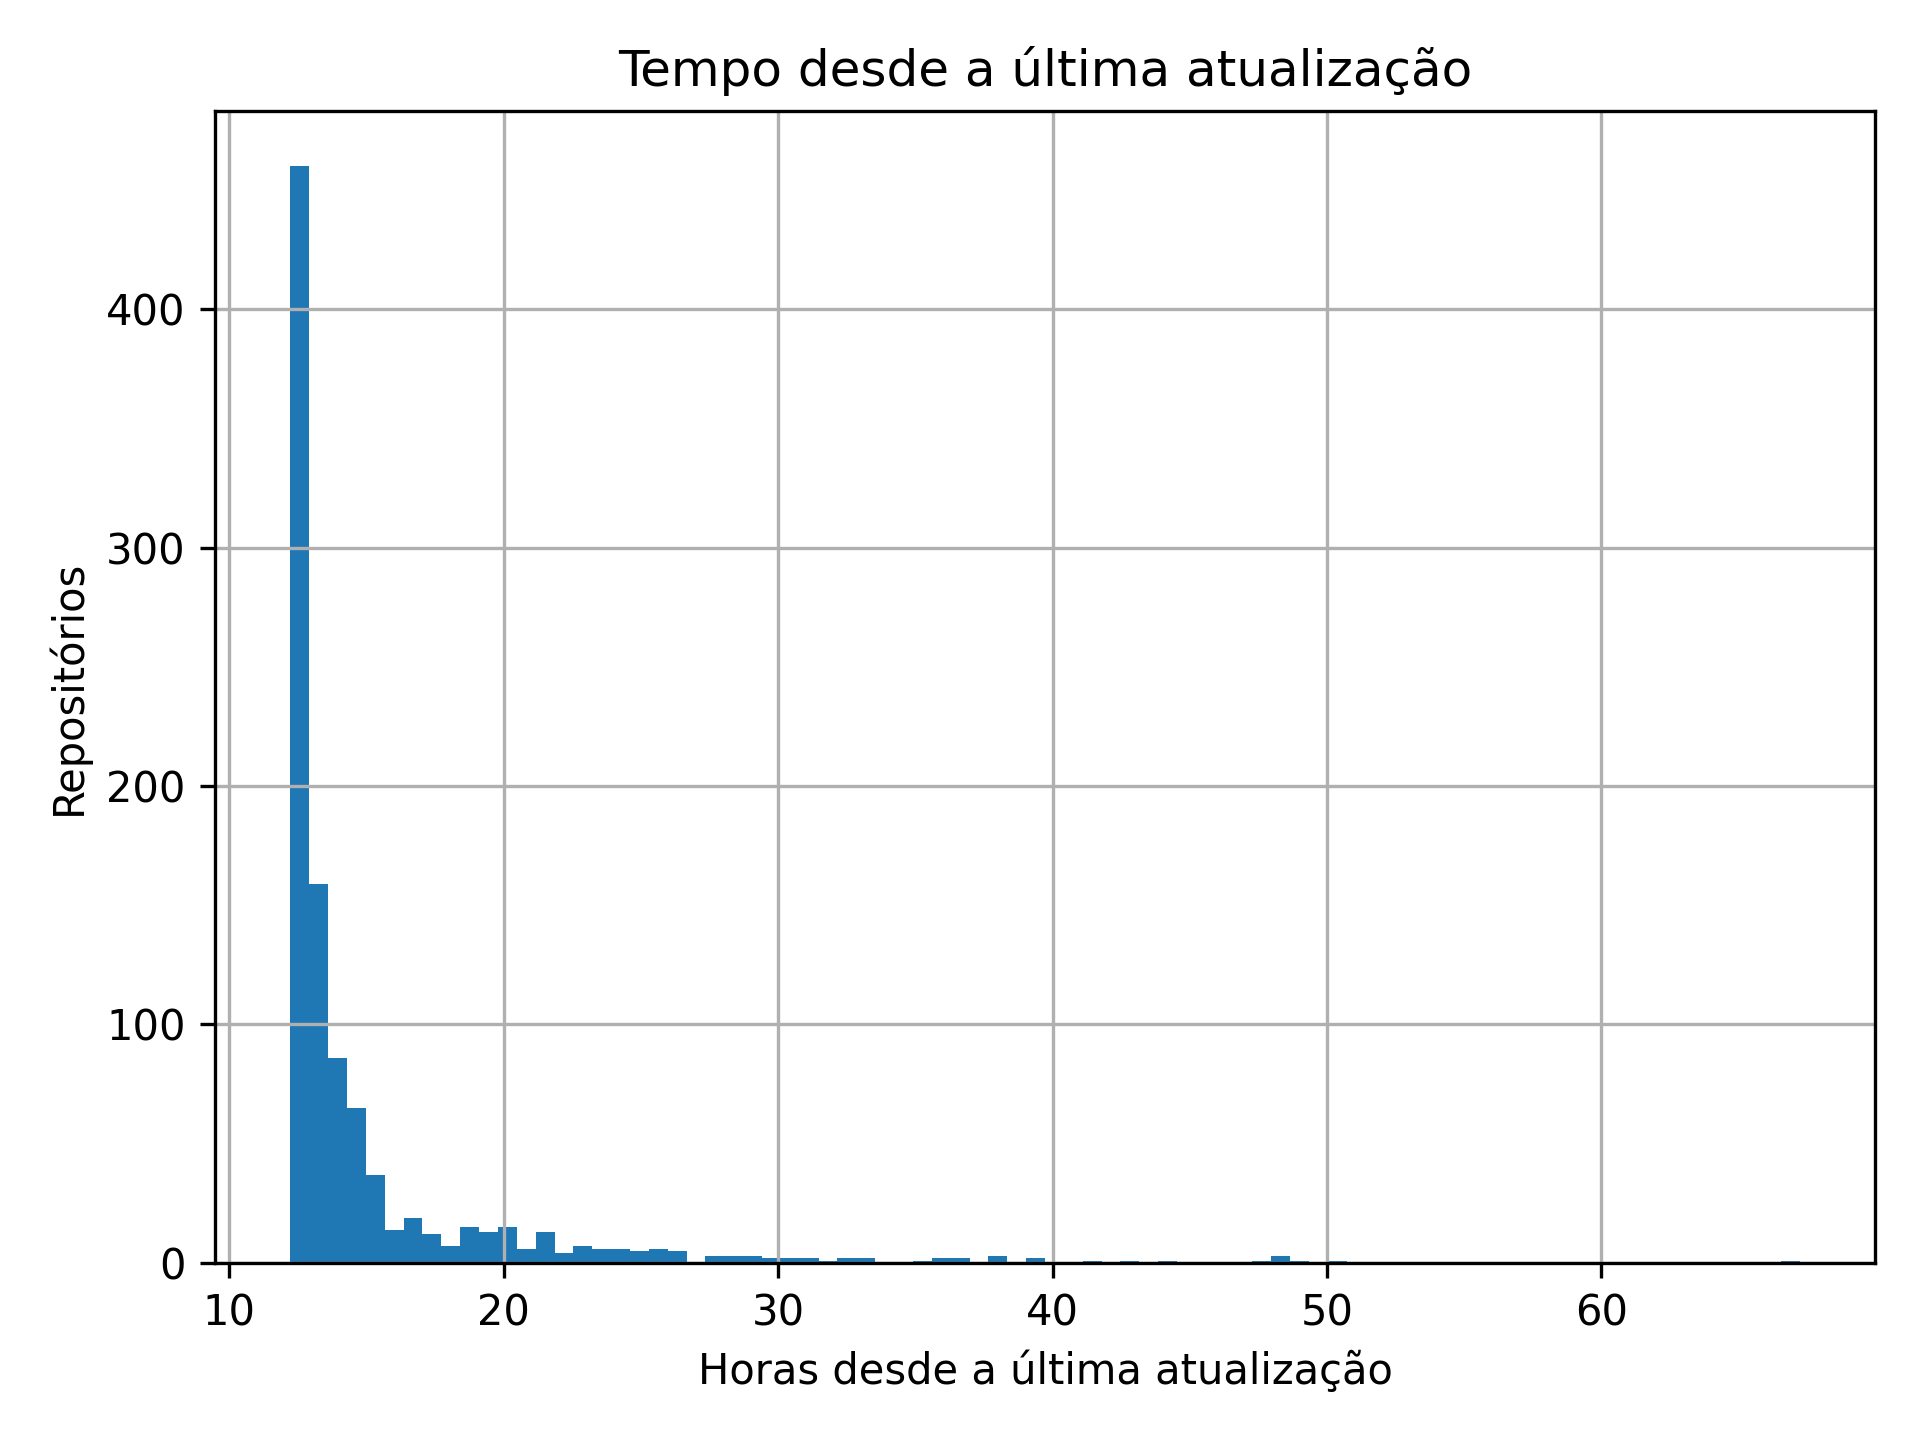
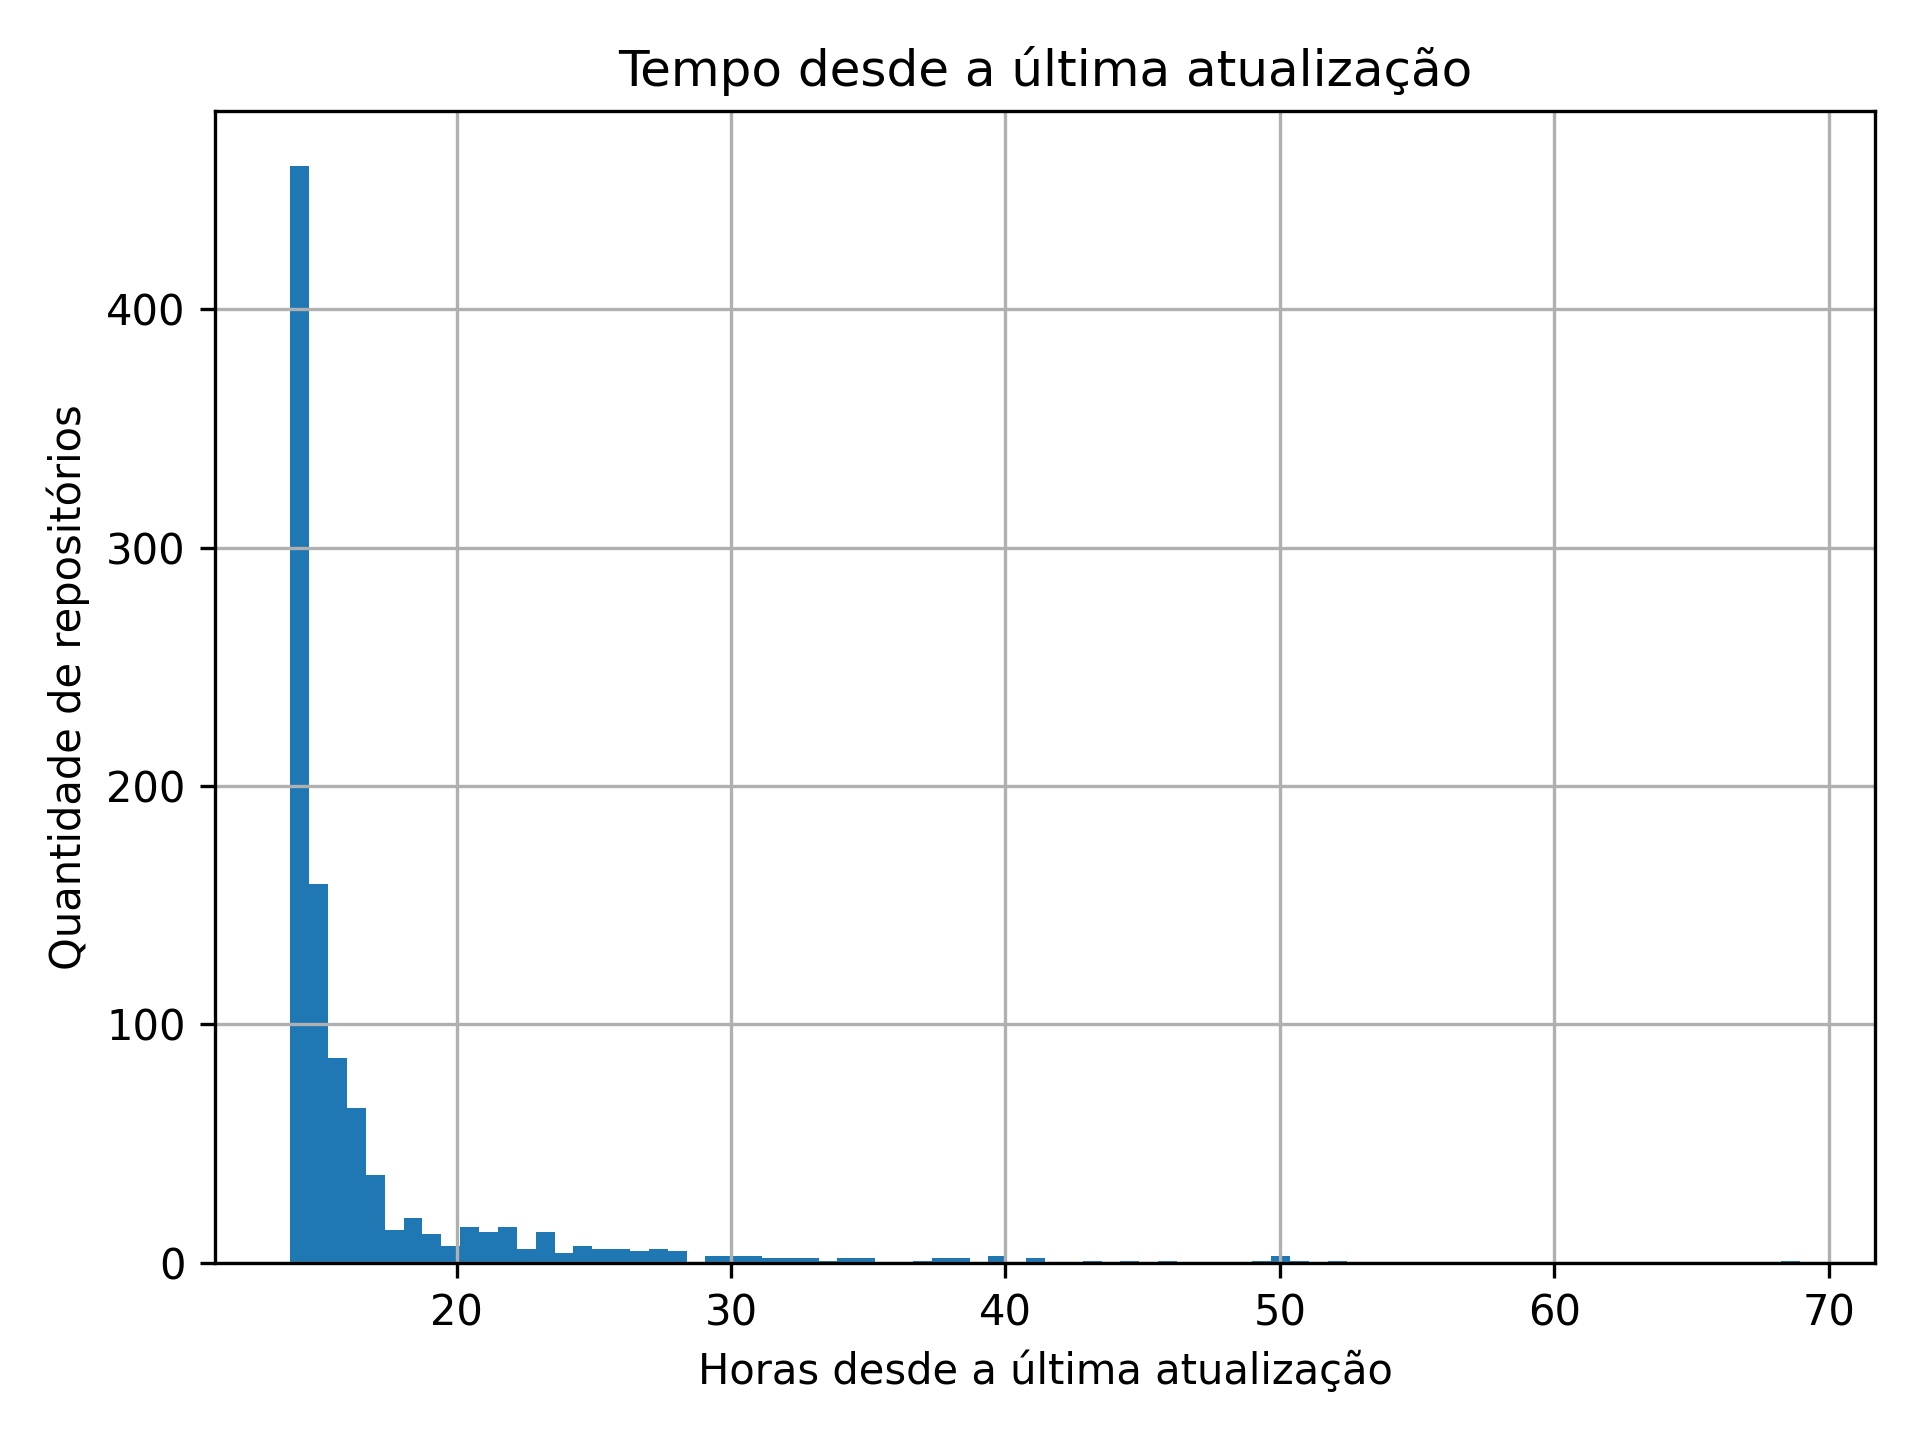
melhora visualização dos gráficos

diff --git a/src/analysis/analyze.py b/src/analysis/analyze.py
@@ -43,7 +43,7 @@ plt.figure()
 df["age_years"].hist(bins=30)
 plt.title("Distribuição da idade dos repositórios")
 plt.xlabel("Idade (anos)")
-plt.ylabel("Quantidade")
+plt.ylabel("Quantidade de repositórios")
 plt.savefig("reports/figures/age_distribution.png", dpi=300)
 
 # =========================
@@ -100,7 +100,7 @@ df["hours_since_update"].hist(bins=80)
 
 plt.title("Tempo desde a última atualização")
 plt.xlabel("Horas desde a última atualização")
-plt.ylabel("Repositórios")
+plt.ylabel("Quantidade de repositórios")
 
 plt.tight_layout()
 plt.savefig("reports/figures/update_time_hours.png", dpi=300)
@@ -138,7 +138,7 @@ plt.figure()
 df["closed_issues_ratio"].hist(bins=30)
 plt.title("Distribuição da razão de issues fechadas")
 plt.xlabel("Razão")
-plt.ylabel("Quantidade")
+plt.ylabel("Quantidade de repositórios")
 plt.savefig("reports/figures/closed_issues_ratio.png")
 
 # =========================
